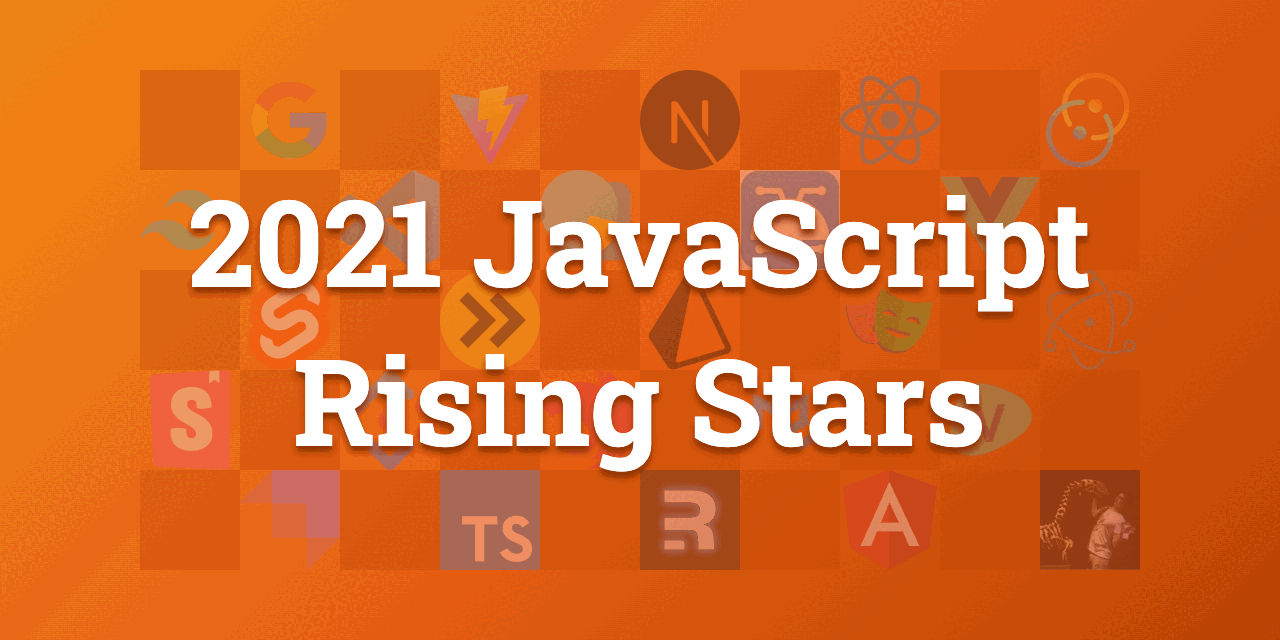
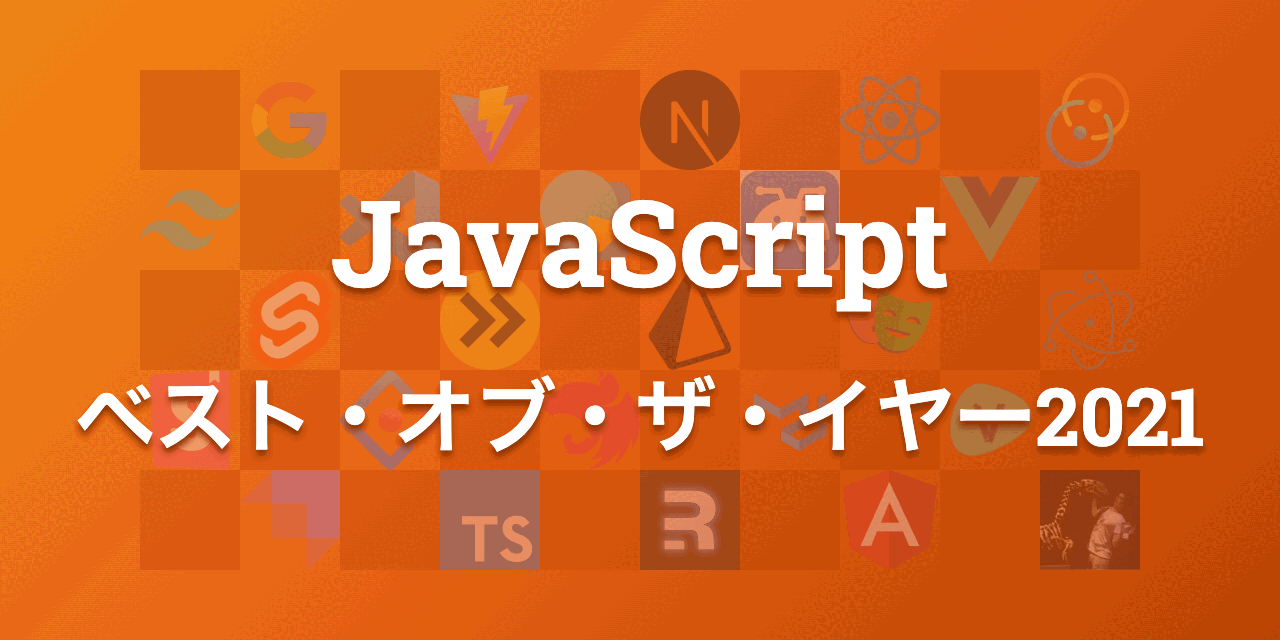
ja edition: display @NurseAngel as the translator,  update social image

Changed region(s): [[0.0625, 0.5312, 0.9375, 0.75], [0.125, 0.2812, 0.875, 0.5]]

diff --git a/src/components/graphics/social-image.tsx b/src/components/graphics/social-image.tsx
@@ -56,7 +56,8 @@ const Message = ({ year, language }: Pick<Props, "year" | "language">) => {
     ja: (
       <span>
         JavaScript
-        <br /> ベスト・オブ・ザ・イヤー{year}
+        <br />
+        <span style={{ fontSize: 80 }}>ベスト・オブ・ザ・イヤー{year}</span>
       </span>
     ),
     fr: `Le Meilleur du JavaScript en ${year}`,

diff --git a/data/teamMembers.js b/data/teamMembers.js
@@ -68,6 +68,12 @@ export const translationWorks = {
     es: ["Javier Valencia"],
     zh: ["AngeloZuo"],
   },
+  2021: {
+    // ru: ["Alexey Pyltsyn"], coming soon?
+    ja: ["NurseAngel"],
+    // es: ["Javier Valencia"], coming soon, yes!
+    // zh: ["AngeloZuo"], coming soon?
+  },
 };
 
 export const translators = {

diff --git a/src/pages/[year]/[language]/design.tsx b/src/pages/[year]/[language]/design.tsx
@@ -9,7 +9,7 @@ export default function DesignPage({
 }: PageProps) {
   const projects = projectsByTag["all"];
   return (
-    <div className="container">
+    <div style={{ maxWidth: 1280, margin: "0 auto" }}>
       <h1>
         Design components - {year} - {language}
       </h1>
